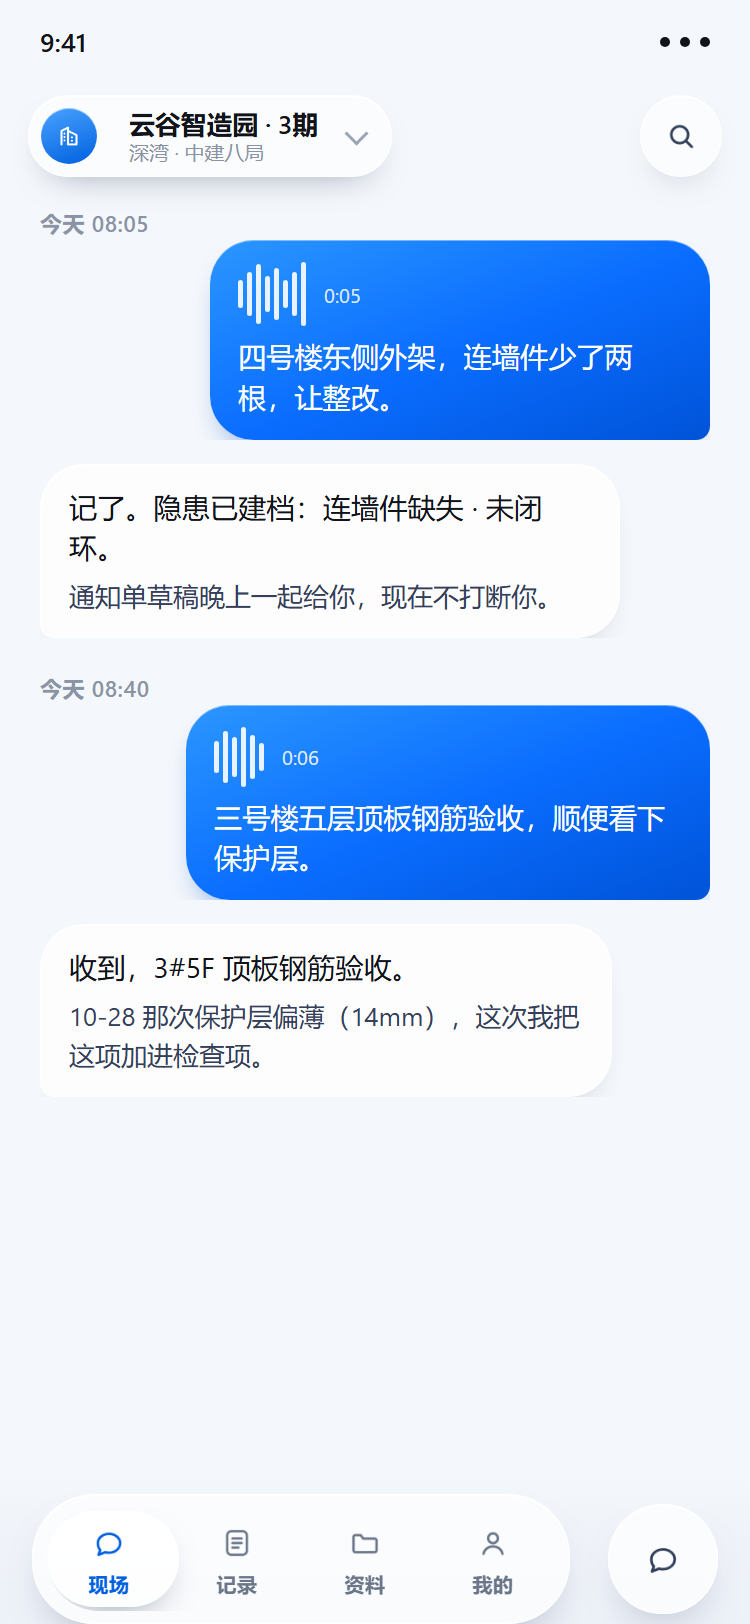
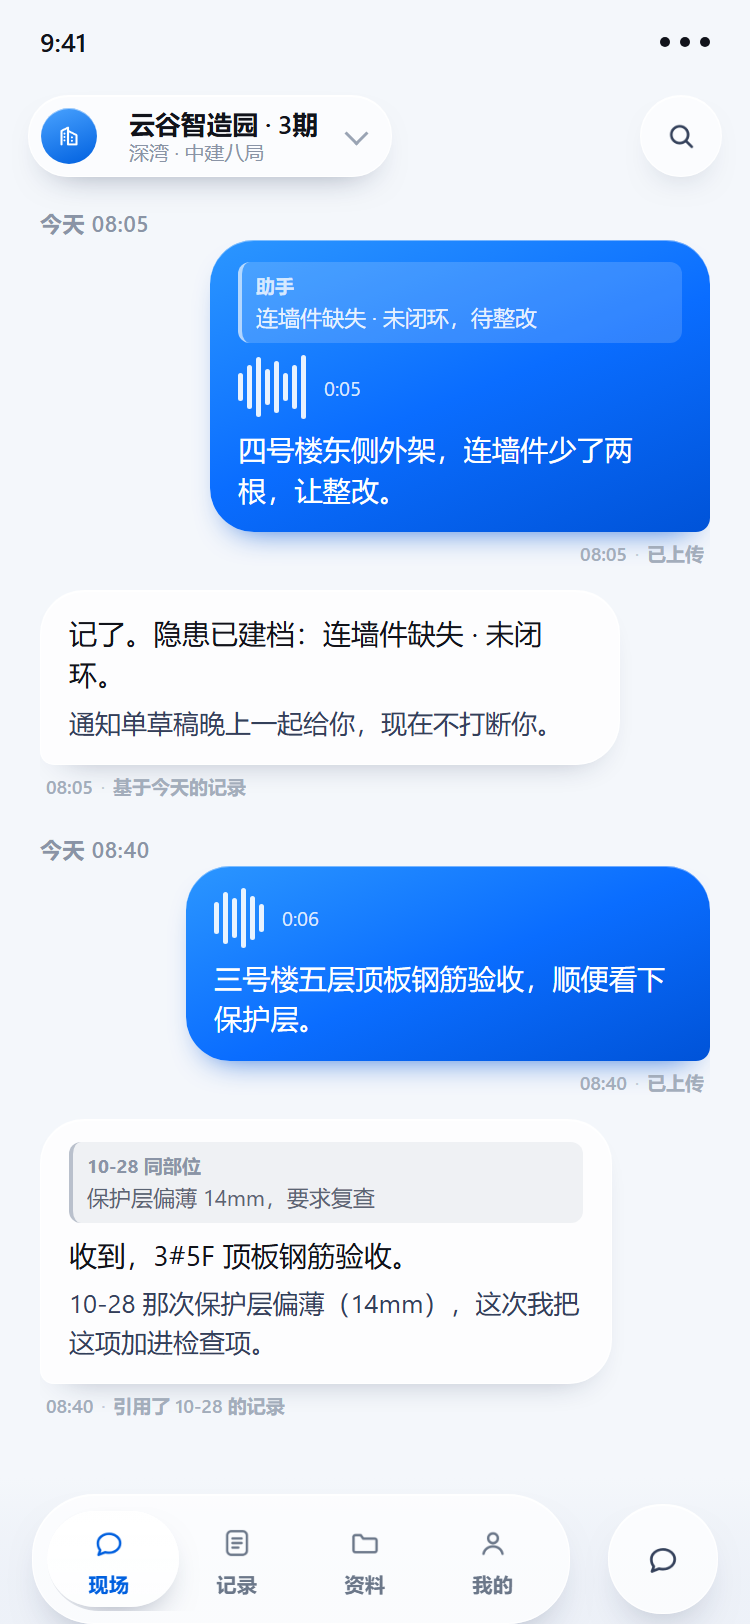
feat(现场): 气泡元信息、引用、转发
- 每条消息下显示 时间 · 同步状态(待上传/已上传) · 来源
- 长按菜单加「引用」「转发到群」，引用条显示在输入框上方
- 引用会带进消息，气泡内渲染为灰底竖线引用块
- 发送后 900ms 模拟上传完成，状态从待上传翻到已上传
- README 补充元信息与引用的说明，更新截图

diff --git a/pages/index/index.js b/pages/index/index.js
@@ -81,6 +81,7 @@ Page({
     menuY: 0,
     menuId: "",
     menuVoice: false,
+    quoting: null,
     soundOn: true,
     imFocus: false,
     recBars: [0, 1, 2, 3, 4, 5, 6, 7, 8, 9, 10, 11, 12, 13],
@@ -1296,6 +1297,47 @@ Page({
     return this.data.msgs.filter((m) => m.id === this.data.menuId)[0] || null;
   },
 
+  /** 引用某一条：气泡上长按 → 引用 */
+  onMenuQuote() {
+    const msg = this._menuMsg();
+    this.setData({ menuOpen: false, imMode: "text" });
+    if (!msg) return;
+    const who = msg.type === "agent" ? "助手" : "我";
+    const text = (msg.text || (msg.photos ? "[" + msg.photos.length + " 张照片]" : "语音")).slice(0, 40);
+    fb.tap();
+    this.setData({ quoting: { id: msg.id, who, text } });
+    this.setMode("input");
+    wx.nextTick(() => this.setData({ imFocus: true }));
+  },
+
+  onCancelQuote() {
+    fb.tap();
+    this.setData({ quoting: null });
+  },
+
+  /** 转发：小程序里不能直接把消息转发到群，先复制成一段可粘贴的文字 */
+  onMenuForward() {
+    const msg = this._menuMsg();
+    this.setData({ menuOpen: false });
+    if (!msg) return;
+
+    const lines = [];
+    if (msg.from || msg.voice) lines.push("【" + (msg.voice ? "语音 " + msg.dur : "图片") + "】");
+    if (msg.text) lines.push(msg.text);
+    const body = lines.join("\n") || "（无文字内容）";
+
+    wx.setClipboardData({
+      data: body,
+      success: () => {
+        wx.showModal({
+          title: "已复制",
+          content: "这条内容已复制，可以粘贴到群里。图片需要单独发送。",
+          showCancel: false,
+          confirmText: "好",
+        });
+      },
+    });
+  },
   onMenuCopy() {
     const msg = this._menuMsg();
     this.setData({ menuOpen: false });
@@ -1614,6 +1656,11 @@ Page({
     } catch (err) {}
 
     fb.tick();
+    const now = new Date();
+    const pad = (n) => (n < 10 ? "0" + n : "" + n);
+    const hhmm = pad(now.getHours()) + ":" + pad(now.getMinutes());
+    const quoting = this.data.quoting;
+
     const msgs = this.data.msgs.concat([
       {
         id: "t" + Date.now(),
@@ -1623,11 +1670,22 @@ Page({
         voice: audios.length > 0,
         dur: audios[0] ? audios[0].dur : "",
         audioCount: audios.length,
+        time: hhmm,
+        sync: false,          // 先乐观显示"待上传"，上传成功再改
+        quote: quoting ? { who: quoting.who, text: quoting.text } : null,
       },
     ]);
+    this.setData({ quoting: null });
+    const myId = msgs[msgs.length - 1].id;
     this.setData({ msgs }, () => {
       this.refreshViews(this.data.query);
       this.scrollToBottom();
+
+      // 上传完成（接后端后换成真实结果回调）
+      setTimeout(() => {
+        const next = this.data.msgs.map((m) => (m.id === myId ? Object.assign({}, m, { sync: true }) : m));
+        this.setData({ msgs: next }, () => this.refreshViews(this.data.query));
+      }, 900);
     });
 
     setTimeout(() => {
@@ -1635,6 +1693,8 @@ Page({
         {
           id: "r" + Date.now(),
           type: "agent",
+          time: hhmm,
+          src: "引用你刚发的那条",
           text: "记下了。",
           sub: "需要我整理成文书时，去「记录」里就能看到。",
         },
@@ -1752,9 +1812,16 @@ Page({
       if (this._rec) this._rec.stop();
     } catch (e) {}
     const msgs = this.data.msgs.concat([msg]);
+    const myId = msgs[msgs.length - 1].id;
     this.setData({ msgs }, () => {
       this.refreshViews(this.data.query);
       this.scrollToBottom();
+
+      // 上传完成（接后端后换成真实结果回调）
+      setTimeout(() => {
+        const next = this.data.msgs.map((m) => (m.id === myId ? Object.assign({}, m, { sync: true }) : m));
+        this.setData({ msgs: next }, () => this.refreshViews(this.data.query));
+      }, 900);
     });
     wx.showToast({ title: "已记下", icon: "none" });
   },

diff --git a/utils/seed.js b/utils/seed.js
@@ -6,11 +6,11 @@ module.exports = {
   msgs: [
       { id: "s1", type: "stamp", text: "今天 08:05" },
       { id: "p1", type: "photos", n: [1, 2], cap: "四号楼东侧外架 · 连墙件" },
-      { id: "m1", type: "me", voice: true, dur: "0:05", text: "四号楼东侧外架，连墙件少了两根，让整改。" },
-      { id: "a1", type: "agent", text: "记了。隐患已建档：连墙件缺失 · 未闭环。", sub: "通知单草稿晚上一起给你，现在不打断你。" },
+      { id: "m1", type: "me", voice: true, dur: "0:05", time: "08:05", sync: true, text: "四号楼东侧外架，连墙件少了两根，让整改。" },
+      { id: "a1", type: "agent", time: "08:05", src: "基于今天的记录", text: "记了。隐患已建档：连墙件缺失 · 未闭环。", sub: "通知单草稿晚上一起给你，现在不打断你。" },
       { id: "s2", type: "stamp", text: "今天 08:40" },
-      { id: "m2", type: "me", voice: true, dur: "0:06", text: "三号楼五层顶板钢筋验收，顺便看下保护层。" },
-      { id: "a2", type: "agent", text: "收到，3#5F 顶板钢筋验收。", sub: "10-28 那次保护层偏薄（14mm），这次我把这项加进检查项。" },
+      { id: "m2", type: "me", voice: true, dur: "0:06", time: "08:40", sync: true, text: "三号楼五层顶板钢筋验收，顺便看下保护层。" },
+      { id: "a2", type: "agent", time: "08:40", src: "引用了 10-28 的同部位记录", text: "收到，3#5F 顶板钢筋验收。", sub: "10-28 那次保护层偏薄（14mm），这次我把这项加进检查项。" },
       { id: "s3", type: "stamp", text: "今天 09:12" },
       { id: "m3", type: "me", voice: true, dur: "0:04", text: "三号楼五层顶板浇筑旁站，开始。" },
       { id: "a3", type: "agent", text: "收到，3#5F 顶板旁站，09:12 开始。", sub: "上次这部位坍落度不合格（10-31），晚上提醒你复查。" },

diff --git a/README.md b/README.md
@@ -46,6 +46,29 @@
 
 **它做的事**：识别部位、构件、问题类型，先建一条隐患档案，不打扰你继续干活。
 
+**每条消息下面有一行元信息**：
+
+```
+我发的   08:05 · 已上传
+助手说   08:05 · 基于今天的记录
+我发的   15:02 · 待上传      ← 工地信号差时，一眼看出哪条还没传上去
+```
+
+**长按气泡**可以：复制 / 引用 / 转发到群 / 转成文字（语音）/ 删除。
+
+**引用**是这套流程的关键——助手回你时，会带上它依据的那条原文：
+
+```
+┌ 10-28 同部位 ─────────────┐
+│ 保护层偏薄 14mm，要求复查   │
+├───────────────────────────┤
+│ 收到，3#5F 顶板钢筋验收。   │
+│ 这次我把保护层加进检查项。   │
+└───────────────────────────┘
+```
+
+你引用它、它引用你，**一条记录从哪来、依据什么**，都留得住。
+
 ---
 
 ### 二、一条消息里，文字 / 图片 / 语音自由组合
